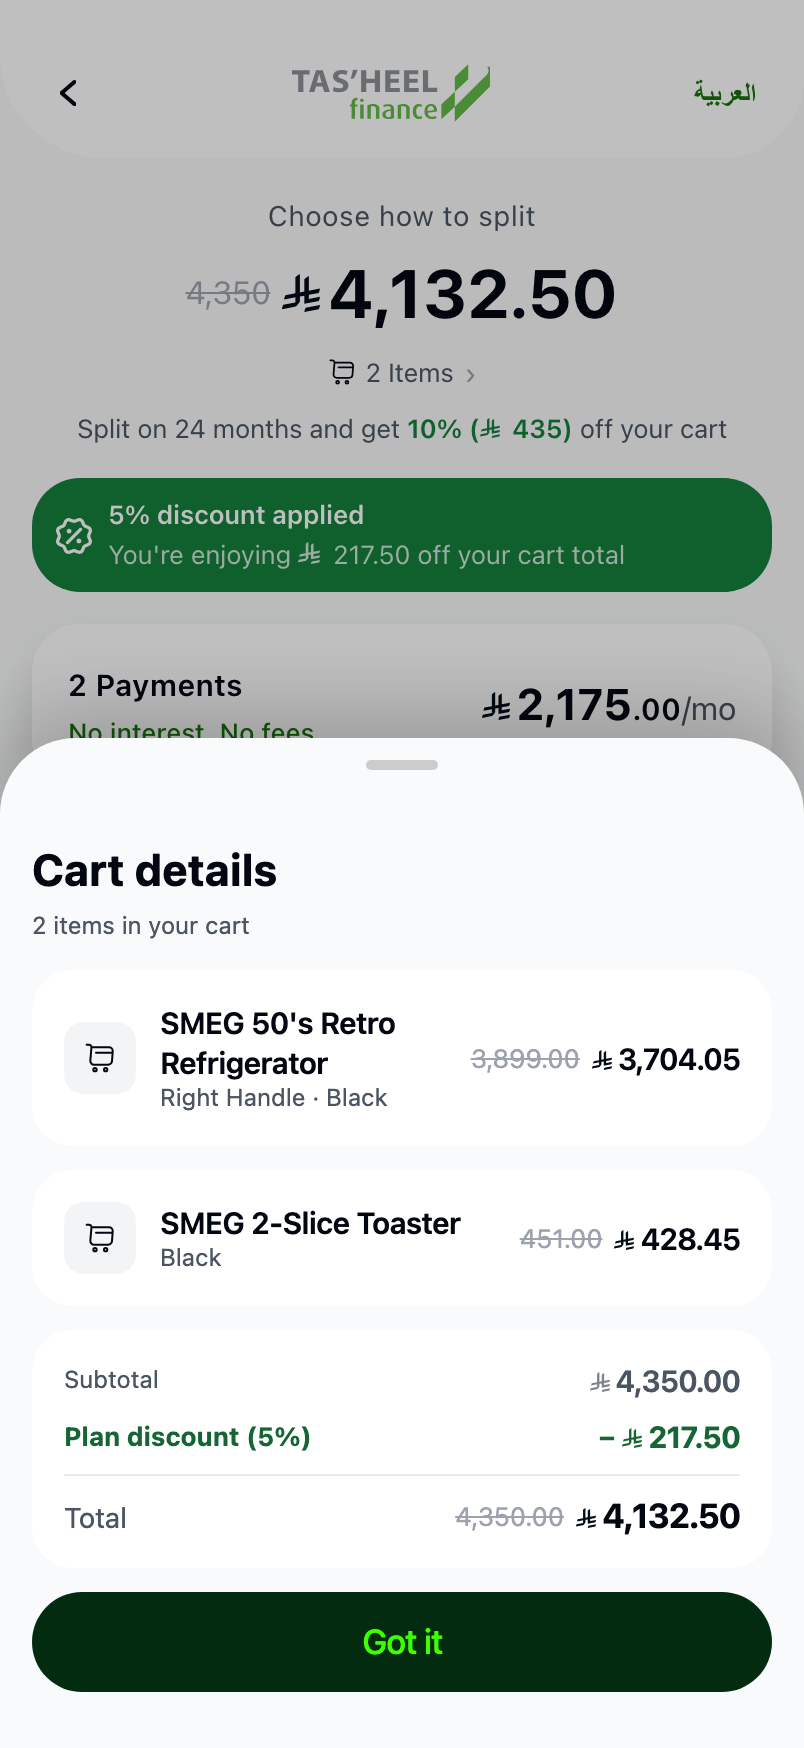
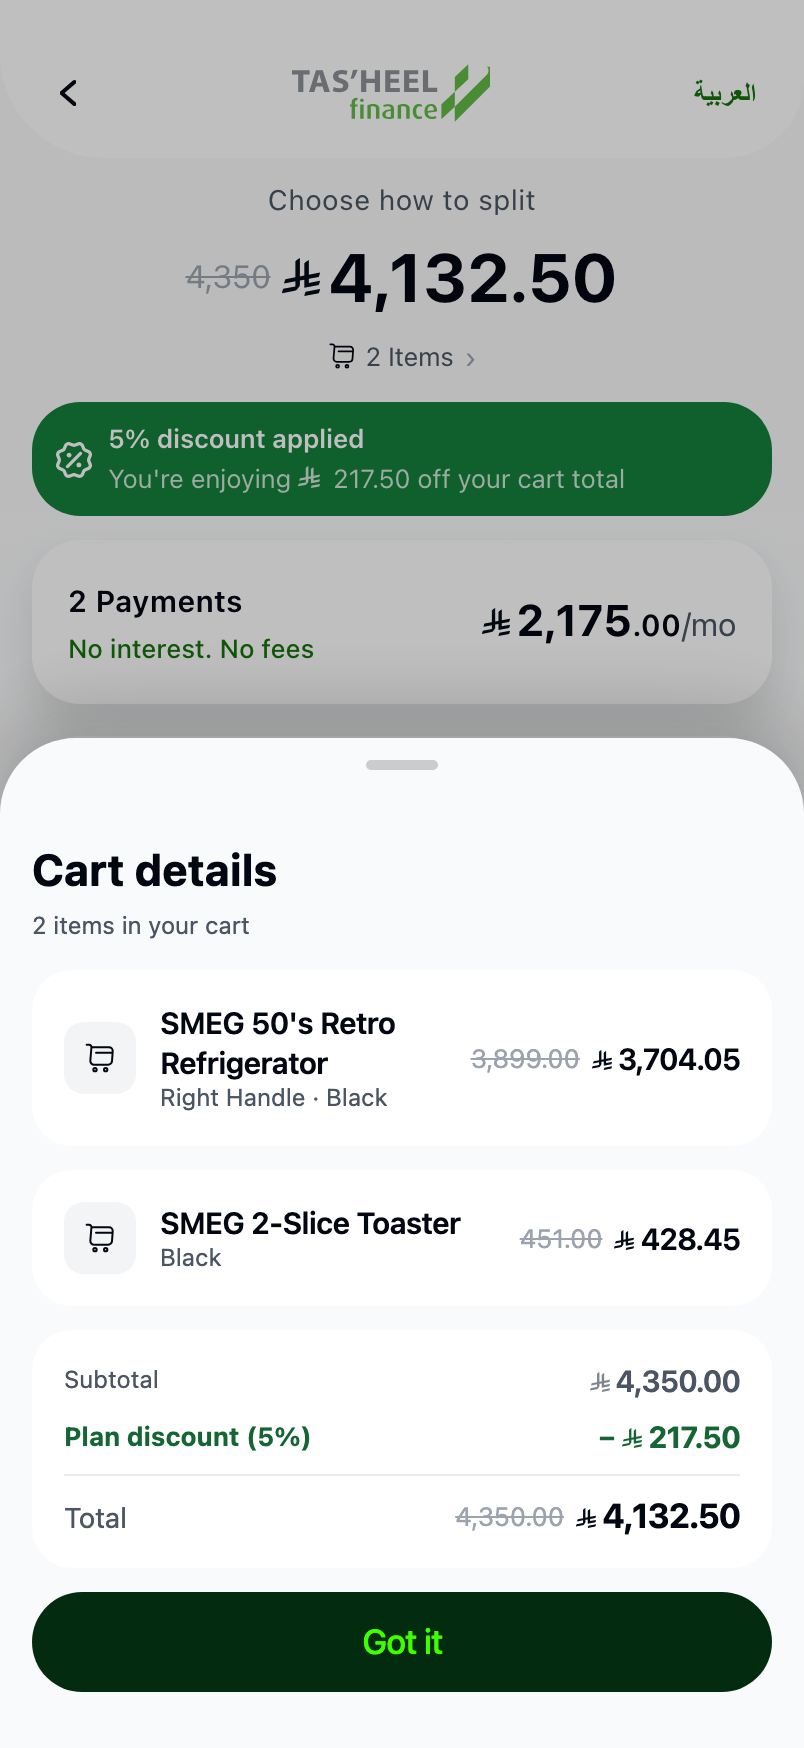
Plans list: contained layout with inner-scrolling rows
Header, amount block and dynamic banner are fixed; only the plan rows scroll,
in their own container with fade edges; the footer is always planted. On
device the screen sizes itself to the visual viewport (100dvh corrected for
the design zoom) so the page never scrolls at all.

To make the fixed region affordable on a phone, the upsell subtitle merged
into the banner's idle copy ("Split on 24 months and get 10% (435) off your
cart") — it was duplicating the banner's message and its removal buys the
rows a full extra line. With that, iPhone 13 and SE both show ~3 rows plus
a peeking one, and selection state (details button appearing) never pushes
anything below the fold.

This also retires the scroll-driven compact bar, the TopPinned/BottomPinned
portals and the AppShell onScroll plumbing — the header simply never leaves.

Verified on desktop, iPhone 13 and iPhone SE: CTA static during scroll,
row 24 reachable, banner/header/CTA all visible without page scroll, 0 errors.

Changed region(s): [[0.0311, 0.0927, 0.9639, 0.4325]]

diff --git a/App.tsx b/App.tsx
@@ -633,7 +633,7 @@ function SegTabs({ value, onChange }: { value: string; onChange: (value: string)
   );
 }
 
-function AppShell({ children, scroll = true, surface = 'app', onScroll }: { children: React.ReactNode; scroll?: boolean; surface?: 'app' | 'checkout'; onScroll?: (y: number) => void }) {
+function AppShell({ children, scroll = true, surface = 'app' }: { children: React.ReactNode; scroll?: boolean; surface?: 'app' | 'checkout' }) {
   const { width, height } = useWindowDimensions();
   const designWidth = 402;
   // Real iOS devices hide the fake 44px status strip, so fixed screens are 830 tall there.
@@ -655,7 +655,7 @@ function AppShell({ children, scroll = true, surface = 'app', onScroll }: { chil
     return (
       <SafeAreaView style={[styles.outer, { backgroundColor: canvas }]}>
         <StatusBar style="dark" />
-        <ScrollView style={{ width: '100%', flex: 1 }} contentContainerStyle={styles.outerScroll} showsVerticalScrollIndicator={false} onScroll={onScroll ? (e) => onScroll(e.nativeEvent.contentOffset.y) : undefined} scrollEventThrottle={16}>
+        <ScrollView style={{ width: '100%', flex: 1 }} contentContainerStyle={styles.outerScroll} showsVerticalScrollIndicator={false}>
           <View {...surfaceProps} style={[styles.phone, { maxWidth: width }]}>
             {createElement('div', { style: { zoom, minHeight: '100%', display: 'flex', flexDirection: 'column', flexGrow: 1, transform: 'translateZ(0)', WebkitTransform: 'translateZ(0)' } }, inner)}
           </View>
@@ -958,39 +958,7 @@ function ActionTile({ label, asset, testID, onPress }: { label: string; asset: F
 
 // Escapes RNW's ScrollView containing-block (its identity transform captures any
 // fixed descendant) by portaling viewport-pinned UI to document.body on device.
-// Pins a bar to the true bottom of the visual viewport on device.
-// Deliberately NOT zoomed like ViewportLayer: that layer scales its own box, so
-// `bottom: 0` inside it resolves to viewportHeight * zoom and the bar floats a
-// scale-dependent distance above Safari's chrome. Full-width bars don't need
-// design-scale fidelity, so real CSS pixels + the safe-area inset is exact.
-function BottomPinned({ children }: { children: React.ReactNode }) {
-  if (SHOW_FAKE_CHROME || typeof document === 'undefined') return <>{children}</>;
-  return createPortal(
-    createElement('div', {
-      style: {
-        position: 'fixed',
-        left: 0,
-        right: 0,
-        bottom: 0,
-        zIndex: 900,
-        paddingBottom: 'env(safe-area-inset-bottom, 0px)',
-      },
-    }, <View pointerEvents="box-none">{children}</View>),
-    document.body,
-  );
-}
 
-// Top-of-viewport sibling of BottomPinned: unzoomed, safe-area aware, for the
-// compact context bar that appears once the in-flow header scrolls away.
-function TopPinned({ children }: { children: React.ReactNode }) {
-  if (SHOW_FAKE_CHROME || typeof document === 'undefined') return <>{children}</>;
-  return createPortal(
-    createElement('div', {
-      style: { position: 'fixed', left: 0, right: 0, top: 0, zIndex: 900, paddingTop: 'env(safe-area-inset-top, 0px)', pointerEvents: 'none' },
-    }, <View pointerEvents="none">{children}</View>),
-    document.body,
-  );
-}
 
 function ViewportLayer({ children }: { children: React.ReactNode }) {
   const { width } = useWindowDimensions();
@@ -1511,7 +1479,6 @@ const WcDiscountBanner = memo(function WcDiscountBanner({ months }: { months: nu
   const rate = months ? Math.round(wcSavingRate(months) * 100) : 0;
   const saving = months ? wcPlanSaving(months) : 0;
   const bestRate = Math.round(wcSavingRate(WC_BEST_TENURE) * 100);
-  const firstDiscounted = WC_TENURES.find((m) => wcSavingRate(m) > 0) ?? WC_BEST_TENURE;
   const isBest = months === WC_BEST_TENURE;
   return (
     <View testID="wc-discount-banner" style={styles.wcBanner}>
@@ -1526,7 +1493,7 @@ const WcDiscountBanner = memo(function WcDiscountBanner({ months }: { months: nu
           ) : (
             <>
               <Text style={styles.wcBannerTitle}>Discounts available</Text>
-              <Text style={styles.wcBannerSub}>Plans from {firstDiscounted} to {WC_BEST_TENURE} months get up to {bestRate}% off your cart</Text>
+              <Text style={styles.wcBannerSub}>Split on {WC_BEST_TENURE} months and get {bestRate}% (<Riyal size={11} color="rgba(255,255,255,0.8)" /> {wcSaving(wcPlanSaving(WC_BEST_TENURE))}) off your cart</Text>
             </>
           )}
         </View>
@@ -1817,125 +1784,90 @@ function WcPlanList({ setRoute, months, setMonths }: { setRoute: (r: RouteKey) =
   const chosen = months;
   const chosenSaving = chosen ? wcPlanSaving(chosen) : 0;
   const chosenPayable = Math.round((WC_CART_TOTAL - chosenSaving) * 100) / 100;
-  // Desktop preview runs inside a fixed 874 frame, so the footer can simply sit
-  // at its bottom. A real iPhone viewport is shorter than that frame, which
-  // pushed the CTA below the fold — there the page scrolls naturally and the
-  // footer pins to the visual viewport, the same way the tab bar does.
   const onDevice = !SHOW_FAKE_CHROME;
-  // Compact "Choose how to split · amount" bar once the in-flow header is gone.
-  // Driven entirely through an Animated.Value: scroll events update the value
-  // and the opacity is an interpolation of it, so scrolling never touches React
-  // state and never re-renders this screen.
-  const scrollY = useRef(new Animated.Value(0)).current;
-  const onScrollY = (y: number) => scrollY.setValue(y);
-  const barFade = scrollY.interpolate({ inputRange: [90, 140], outputRange: [0, 1], extrapolate: 'clamp' });
-  const topBar = (
-    <Animated.View pointerEvents="none" style={{ opacity: barFade }}>
-      <View style={styles.wcPlansTopBar}>
-        <Text style={styles.wcPlansTopBarLabel}>Choose how to split</Text>
-        {chosenSaving > 0 ? (
-          <View style={styles.wcCartDiscountChip}><Text style={styles.wcCartDiscountChipText}>{Math.round(wcSavingRate(chosen ?? 0) * 100)}% Off</Text></View>
-        ) : null}
-        <Riyal size={13} />
-        <Text style={styles.wcPlansTopBarAmount}>{wcSaving(chosenPayable)}</Text>
+  const { width } = useWindowDimensions();
+  const zoom = onDevice ? width / 402 : 1;
+
+  // Contained layout: header, amount block and banner stay fixed; only the plan
+  // rows scroll, inside their own container with fade edges; the footer is
+  // always planted. On device the whole screen is sized to the visual viewport
+  // (100dvh corrected for the design zoom), so the page itself never scrolls.
+  const screen = (
+    <View style={{ flex: 1 }}>
+      <WcOnboardHeader onClose={() => setRoute('checkout')} onBack={() => setRoute('wcDemo')} />
+      <View style={styles.wcPlansFixedHead}>
+        <View style={styles.wcPlansHead}>
+          <Text style={styles.wcPlansEyebrow}>Choose how to split</Text>
+          {/* One amount owns the screen — the payable once a discounted plan
+              is chosen, the cart total otherwise. */}
+          <View style={styles.wcPlansTotalRow}>
+            {chosenSaving > 0 ? <Text style={styles.wcPlansTotalWas}>{formatAmount(WC_CART_TOTAL)}</Text> : null}
+            <Riyal size={19} />
+            <Text style={styles.wcPlansTotal}>{wcSaving(chosenPayable)}</Text>
+          </View>
+          <Pressable
+            testID="wc-cart-link"
+            onPress={() => setSheet('cart')}
+            hitSlop={8}
+            accessibilityRole="button"
+            accessibilityLabel={`${WC_CART_ITEMS} items. View cart details`}
+            style={({ pressed }) => [styles.wcPlansCartLink, pressed && { opacity: 0.65 }]}
+          >
+            <Image source={figmaImageSource('wcCartIcon')} resizeMode="contain" accessibilityIgnoresInvertColors style={{ width: 14, height: 14 }} />
+            <Text style={styles.wcPlansCartLinkText}>{WC_CART_ITEMS} {WC_CART_ITEMS === 1 ? 'Item' : 'Items'}</Text>
+            <Text style={styles.wcPlansCartLinkChevron}>›</Text>
+          </Pressable>
+        </View>
+        <WcDiscountBanner months={chosen} />
       </View>
-      <View pointerEvents="none" style={[styles.wcPlansTopBarFade, { backgroundImage: 'linear-gradient(180deg, #f9fafb 20%, rgba(249,250,251,0))' } as object]} />
-    </Animated.View>
-  );
-  const footer = (
-    <View style={[styles.wcPlansFooter, onDevice && styles.wcPlansFooterPinned]}>
-      {/* Cards dissolve into the footer instead of getting razor-cut at
-          its edge — web-only gradient, harmless elsewhere. */}
-      <View pointerEvents="none" style={[styles.wcPlansFade, { backgroundImage: 'linear-gradient(180deg, rgba(249,250,251,0), #f9fafb)' } as object]} />
-      <Pressable
-        testID="wc-plans-continue"
-        disabled={chosen === null}
-        style={[styles.wcGreenCta, styles.wcPlansCta, chosen === null && styles.wcCtaDisabled]}
-        onPress={() => chosen !== null && setRoute('wcPayment')}
-        accessibilityRole="button"
-        accessibilityState={{ disabled: chosen === null }}
-        accessibilityLabel={chosen === null ? 'Choose a plan to continue' : `Continue with ${chosen} payments`}
-      >
-        <Text style={[styles.wcGreenCtaText, chosen === null && styles.wcCtaDisabledText]}>Continue</Text>
-      </Pressable>
-      {/* Parity with the stepper — but only once a plan exists to detail. */}
-      {chosen !== null ? (
+      <View style={{ flex: 1 }}>
+        <ScrollView style={{ flex: 1 }} contentContainerStyle={styles.wcPlansRows} showsVerticalScrollIndicator={false}>
+          <View style={styles.wcPlansList} accessibilityRole="radiogroup">
+            {WC_TENURES.map((value) => (
+              <WcPlanRow key={value} months={value} selected={chosen === value} onPress={() => setMonths(chosen === value ? null : value)} />
+            ))}
+          </View>
+        </ScrollView>
+        {/* Rows dissolve at the container's top edge, mirroring the footer fade. */}
+        <View pointerEvents="none" style={[styles.wcPlansRowsTopFade, { backgroundImage: 'linear-gradient(180deg, #f9fafb, rgba(249,250,251,0))' } as object]} />
+      </View>
+      <View style={styles.wcPlansFooter}>
+        <View pointerEvents="none" style={[styles.wcPlansFade, { backgroundImage: 'linear-gradient(180deg, rgba(249,250,251,0), #f9fafb)' } as object]} />
         <Pressable
-          testID="wc-plans-details"
-          style={[styles.wcGreyCta, styles.wcPlansCta]}
-          onPress={() => setSheet('details')}
+          testID="wc-plans-continue"
+          disabled={chosen === null}
+          style={[styles.wcGreenCta, styles.wcPlansCta, chosen === null && styles.wcCtaDisabled]}
+          onPress={() => chosen !== null && setRoute('wcPayment')}
           accessibilityRole="button"
-          accessibilityLabel={`View details for ${chosen} payments`}
+          accessibilityState={{ disabled: chosen === null }}
+          accessibilityLabel={chosen === null ? 'Choose a plan to continue' : `Continue with ${chosen} payments`}
         >
-          <Text style={styles.wcGreyCtaText}>View plan details</Text>
+          <Text style={[styles.wcGreenCtaText, chosen === null && styles.wcCtaDisabledText]}>Continue</Text>
         </Pressable>
-      ) : null}
-      {/* The fake Safari bar is desktop-only chrome; on device it collapses to an
-          empty spacer that would just push the CTA up off the bottom edge. */}
-      {onDevice ? null : <SafariCompactBar url="extrastores.com" onBack={() => setRoute('wcDemo')} />}
+        {chosen !== null ? (
+          <Pressable
+            testID="wc-plans-details"
+            style={[styles.wcGreyCta, styles.wcPlansCta]}
+            onPress={() => setSheet('details')}
+            accessibilityRole="button"
+            accessibilityLabel={`View details for ${chosen} payments`}
+          >
+            <Text style={styles.wcGreyCtaText}>View plan details</Text>
+          </Pressable>
+        ) : null}
+        {onDevice ? null : <SafariCompactBar url="extrastores.com" onBack={() => setRoute('wcDemo')} />}
+      </View>
     </View>
   );
-  const list = (
-    <>
-      <View style={styles.wcPlansHead}>
-              <Text style={styles.wcPlansEyebrow}>Choose how to split</Text>
-              {/* One amount owns the screen — this IS the cart total (payable
-                  once a discounted plan is chosen), so the old cart pill above
-                  it was saying the same thing twice. */}
-              <View style={styles.wcPlansTotalRow}>
-                {chosenSaving > 0 ? <Text style={styles.wcPlansTotalWas}>{formatAmount(WC_CART_TOTAL)}</Text> : null}
-                <Riyal size={19} />
-                <Text style={styles.wcPlansTotal}>{wcSaving(chosenPayable)}</Text>
-              </View>
-              <Pressable
-                testID="wc-cart-link"
-                onPress={() => setSheet('cart')}
-                hitSlop={8}
-                accessibilityRole="button"
-                accessibilityLabel={`${WC_CART_ITEMS} items. View cart details`}
-                style={({ pressed }) => [styles.wcPlansCartLink, pressed && { opacity: 0.65 }]}
-              >
-                <Image source={figmaImageSource('wcCartIcon')} resizeMode="contain" accessibilityIgnoresInvertColors style={{ width: 14, height: 14 }} />
-                <Text style={styles.wcPlansCartLinkText}>{WC_CART_ITEMS} {WC_CART_ITEMS === 1 ? 'Item' : 'Items'}</Text>
-                <Text style={styles.wcPlansCartLinkChevron}>›</Text>
-              </Pressable>
-              <Text style={styles.wcPlansSub}>
-                Split on {WC_BEST_TENURE} months and get <Text style={styles.wcPlansSubStrong}>{Math.round(wcSavingRate(WC_BEST_TENURE) * 100)}% (<Riyal size={10} color="#15803d" /> {wcSaving(wcPlanSaving(WC_BEST_TENURE))})</Text> off your cart
-              </Text>
-            </View>
-            <WcDiscountBanner months={chosen} />
-            <View style={styles.wcPlansList} accessibilityRole="radiogroup">
-              {WC_TENURES.map((value) => (
-                <WcPlanRow key={value} months={value} selected={chosen === value} onPress={() => setMonths(chosen === value ? null : value)} />
-              ))}
-            </View>
-    </>
-  );
+
   return (
-    <AppShell scroll={onDevice} onScroll={onDevice ? onScrollY : undefined}>
+    <AppShell scroll={onDevice}>
       <View testID="wc-plans-3615-73832" style={styles.wcObScreen}>
         <ScreenFade>
-          <WcOnboardHeader onClose={() => setRoute('checkout')} onBack={() => setRoute('wcDemo')} />
-          {onDevice ? (
-            <View style={[styles.wcPlansContent, styles.wcPlansContentDevice]}>{list}</View>
-          ) : (
-            <View style={{ flex: 1 }}>
-              <ScrollView
-                style={{ flex: 1 }}
-                contentContainerStyle={styles.wcPlansContent}
-                showsVerticalScrollIndicator={false}
-                onScroll={(e) => onScrollY(e.nativeEvent.contentOffset.y)}
-                scrollEventThrottle={16}
-              >
-                {list}
-              </ScrollView>
-              <View pointerEvents="none" style={{ position: 'absolute', top: 0, left: 0, right: 0, zIndex: 30 }}>{topBar}</View>
-            </View>
-          )}
-          {onDevice ? null : footer}
+          {onDevice
+            ? createElement('div', { style: { height: `calc(100dvh / ${zoom})`, display: 'flex', flexDirection: 'column', paddingBottom: 'env(safe-area-inset-bottom, 0px)', boxSizing: 'border-box' } }, screen)
+            : screen}
         </ScreenFade>
-        {onDevice ? <BottomPinned>{footer}</BottomPinned> : null}
-        {onDevice ? <TopPinned>{topBar}</TopPinned> : null}
         {sheet === 'cart' ? <WcCartSheet onClose={() => setSheet(null)} months={chosen} /> : null}
         {sheet === 'details' && chosen !== null ? <WcPlanDetailsSheet months={chosen} onClose={() => setSheet(null)} onViewSchedule={() => setSheet('schedule')} onContinue={() => setRoute('wcPayment')} /> : null}
         {sheet === 'schedule' && chosen !== null ? <WcFullScheduleSheet months={chosen} onClose={() => setSheet(null)} /> : null}
@@ -4778,15 +4710,10 @@ const styles = StyleSheet.create({
   wcDemoCardSub: { fontSize: 13, lineHeight: 17, color: muted },
   wcDemoChevron: { fontSize: 22, lineHeight: 26, color: '#9ca3af', fontWeight: '400' },
   // ── Experience A — Figma 3615:73832 ───────────────────────────────────────────
-  wcPlansContent: { paddingHorizontal: 16, paddingTop: 16, paddingBottom: 20, gap: 16 },
-  wcPlansHead: { paddingHorizontal: 2, paddingTop: 4, alignItems: 'center', gap: 8 },
-  // Compact context bar that fades in once the header scrolls away. CSS sticky
-  // is unusable here: the phone frame's overflow:hidden sits between any sticky
-  // element and the device scrollport, which disables sticking entirely.
-  wcPlansTopBar: { flexDirection: 'row', alignItems: 'center', justifyContent: 'center', gap: 6, backgroundColor: canvas, paddingVertical: 10, paddingHorizontal: 16 },
-  wcPlansTopBarLabel: { fontSize: 13, lineHeight: 18, color: muted },
-  wcPlansTopBarAmount: { fontSize: 17, lineHeight: 22, fontWeight: '700', color: text, letterSpacing: -0.2 },
-  wcPlansTopBarFade: { position: 'absolute', bottom: -20, left: 0, right: 0, height: 20 },
+  wcPlansFixedHead: { paddingHorizontal: 16, paddingTop: 12, gap: 12 },
+  wcPlansHead: { paddingHorizontal: 2, alignItems: 'center', gap: 8 },
+  wcPlansRows: { paddingHorizontal: 16, paddingTop: 12, paddingBottom: 24 },
+  wcPlansRowsTopFade: { position: 'absolute', top: 0, left: 0, right: 0, height: 14 },
   wcPlansEyebrow: { fontSize: 14, lineHeight: 18, color: muted, letterSpacing: 0.36 },
   wcPlansTotalRow: { flexDirection: 'row', alignItems: 'center' },
   wcPlansTotal: { fontSize: 34, lineHeight: 42, fontWeight: '700', color: text, letterSpacing: 0.38 },
@@ -4794,16 +4721,9 @@ const styles = StyleSheet.create({
   wcPlansCartLink: { flexDirection: 'row', alignItems: 'center', gap: 5, paddingVertical: 2 },
   wcPlansCartLinkText: { fontSize: 13, lineHeight: 18, color: muted, letterSpacing: -0.08 },
   wcPlansCartLinkChevron: { fontSize: 15, lineHeight: 18, color: '#9ca3af', marginTop: -1 },
-  wcPlansSub: { fontSize: 13, lineHeight: 18, color: muted, letterSpacing: -0.08, textAlign: 'center' },
-  wcPlansSubStrong: { fontWeight: '600', color: '#15803d' },
   wcPlansList: { gap: 16 },
-  wcPlansFooter: { paddingTop: 12, gap: 10, alignItems: 'center', backgroundColor: canvas },
-  // On device the footer is pinned to the visual viewport by ViewportLayer.
-  // BottomPinned owns the anchoring; the footer just needs its own padding.
-  wcPlansFooterPinned: { paddingHorizontal: 16, paddingBottom: 12, gap: 0 },
+  wcPlansFooter: { paddingTop: 12, paddingBottom: 10, paddingHorizontal: 16, gap: 10, alignItems: 'center', backgroundColor: canvas },
   wcPlansFade: { position: 'absolute', top: -28, left: 0, right: 0, height: 28 },
-  // Room for the pinned footer so the last card is never trapped behind it.
-  wcPlansContentDevice: { paddingBottom: 190 },
   wcPlansCta: { width: '100%', maxWidth: 358, alignSelf: 'center' },
   wcPlanRow: { backgroundColor: '#fff', borderRadius: 24, overflow: 'hidden', flexDirection: 'row', alignItems: 'center', justifyContent: 'space-between', paddingLeft: 16, borderWidth: 2, borderColor: 'transparent', shadowColor: '#000', shadowOpacity: 0.1, shadowRadius: 22, shadowOffset: { width: 0, height: 10 } },
   wcPlanRowOffer: { height: 87 },
